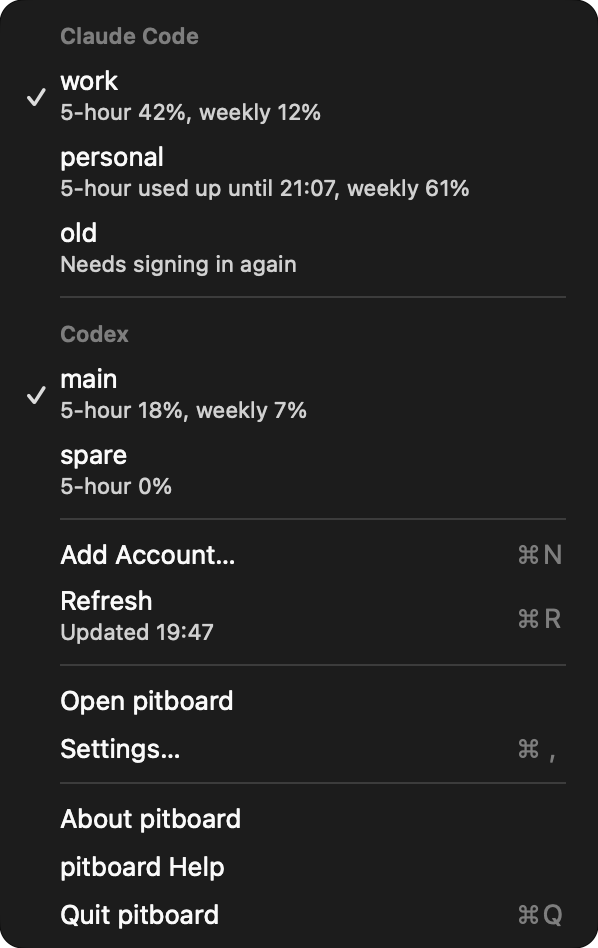
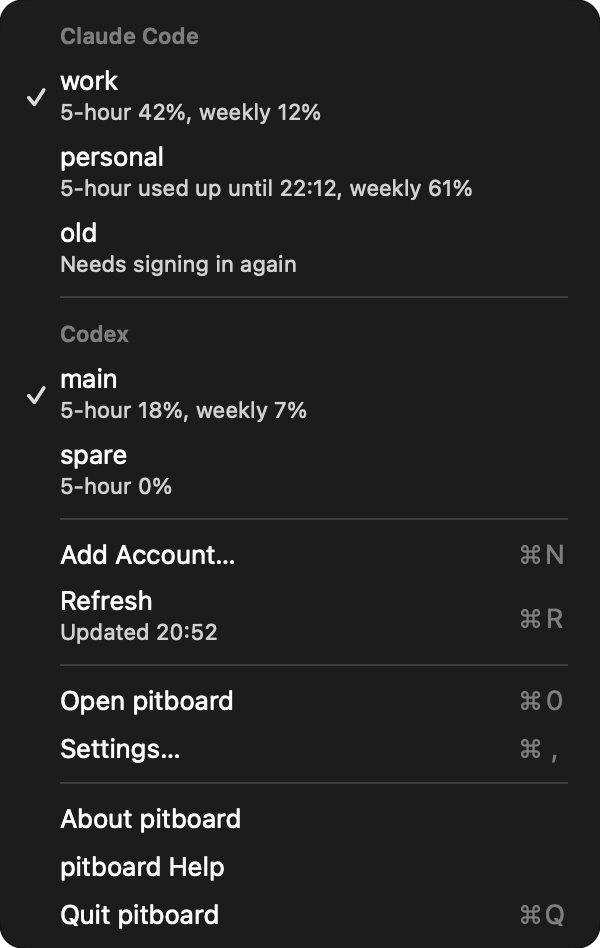
README screenshots show the window's limits in a grid

diff --git a/README.md b/README.md
@@ -7,7 +7,7 @@ Switch between your own Claude Code and Codex logins, and see how much each one 
 [![crates.io](https://img.shields.io/crates/v/pitboard.svg)](https://crates.io/crates/pitboard)
 [![Licence](https://img.shields.io/badge/licence-Apache--2.0-blue.svg)](LICENSE)
 
-<img src=".github/media/menu.png" alt="The pitboard menu, listing Claude Code and Codex accounts with a check mark on each one in use and their five hour and weekly limits under their names" width="299">
+<img src=".github/media/menu.png" alt="The pitboard menu, listing Claude Code and Codex accounts with a check mark on each one in use and their five hour and weekly limits under their names" width="300">
 
 If you have more than one Claude or ChatGPT subscription, changing accounts in Claude Code
 or OpenAI's Codex CLI normally means signing out and back in through a browser. pitboard
